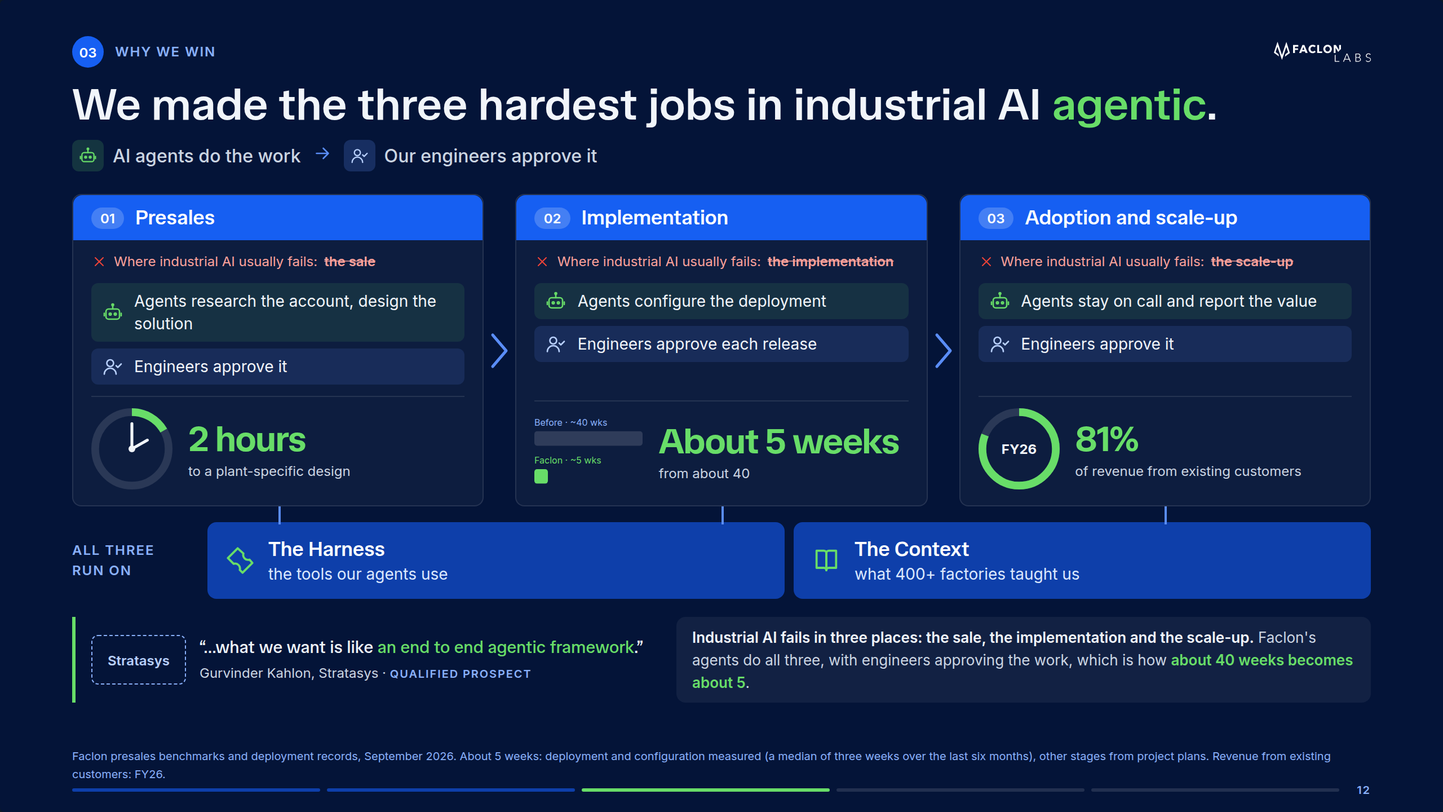
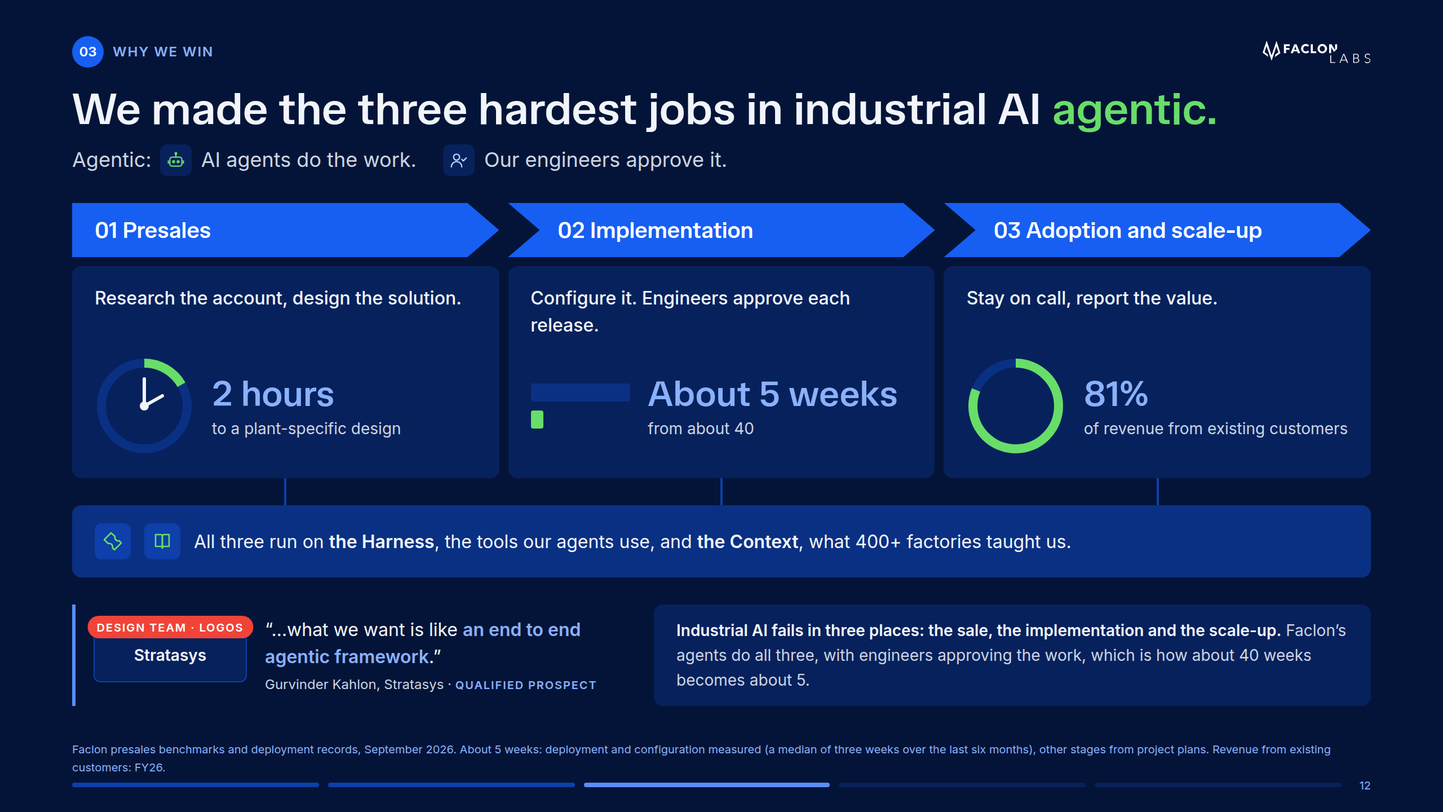
Keep original copy on 'Why we win' slide and align strictly to Faclon tokens
Restores the slide's exact wording, removes added labels, and limits
type, spacing, radius and colour to Faclon design-system values.

Claude-Session: https://claude.ai/code/session_01QeuDUy2Meuemrh82UXkygy

diff --git a/faclon-investor-deck/slide-12-why-we-win.html b/faclon-investor-deck/slide-12-why-we-win.html
@@ -5,254 +5,120 @@
 <link href="https://fonts.googleapis.com/css2?family=Inter:wght@400;500;600;700&family=TASA+Orbiter:wght@400..700&display=swap" rel="stylesheet">
 <style>
 :root{
-  --b050:#F4F8FF;--b100:#DCE8FE;--b200:#B8D0FD;--b300:#8AB1FB;--b400:#5A8DF7;--b500:#165FF2;
-  --b600:#124ED0;--b700:#0E3FAA;--b800:#0A3083;--b900:#07215C;--b1000:#041438;
-  --accent:#68DD68;
-  --g050:#EBFAF3;--g500:#00BE5F;--g1000:#00361B;
-  --r050:#FFF5F5;--r500:#F04438;--r1000:#750A0A;
-  --bg1:#FFFFFF;--bg2:#F1F5FA;--dk1:#171F2B;--dk2:#0C1927;
-  --ink:#0C1927;--body:#243547;--sup:#40566D;--muted:#768EA7;
-  --dkhead:#F1F5FA;--dkbody:#CBD5E2;
-  --line:#E3E9F1;
-  --shadow:0 2px 16px rgba(25,40,57,.10);
-  --fh:'TASA Orbiter',Inter,system-ui,sans-serif;
-  --fb:Inter,system-ui,sans-serif;
+  --b100:#DCE8FE;--b200:#B8D0FD;--b300:#8AB1FB;--b400:#5A8DF7;--b500:#165FF2;--b600:#124ED0;
+  --b700:#0E3FAA;--b800:#0A3083;--b900:#07215C;--b1000:#041438;
+  --accent:#68DD68;--r050:#FFF5F5;--r500:#F04438;
+  --hd:#F1F5FA;--bd:#CBD5E2;
+  --fh:'TASA Orbiter',Inter,system-ui,sans-serif;--fb:Inter,system-ui,sans-serif;
 }
 *{box-sizing:border-box;margin:0;padding:0}
 html,body{height:100%}
-body{background:#0C1927;font-family:var(--fb);color:var(--body);overflow:hidden;-webkit-font-smoothing:antialiased}
+body{background:#0C1927;overflow:hidden;-webkit-font-smoothing:antialiased;font-family:var(--fb)}
 #stage{position:fixed;inset:0;display:flex;align-items:center;justify-content:center}
-#deck{width:1280px;height:720px;position:relative;transform-origin:center center;flex:0 0 auto}
-.slide{position:absolute;inset:0;width:1280px;height:720px;background:var(--bg1);overflow:hidden;display:none;border-radius:4px}
-.slide.active{display:block}
-.slide.dark{background:var(--b1000);color:var(--dkbody)}
-.slide.tint{background:var(--bg2)}
-.dots::before{content:"";position:absolute;inset:0;background-image:radial-gradient(rgba(90,141,247,.22) 1.2px,transparent 1.4px);background-size:24px 24px;pointer-events:none}
-.pad{position:absolute;inset:48px 64px 64px 64px;display:flex;flex-direction:column}
-.eyebrow{font:600 12px/18px var(--fb);letter-spacing:.96px;text-transform:uppercase;color:var(--b500)}
-.dark .eyebrow{color:var(--b300)}
-.title{font:600 40px/48px var(--fh);color:var(--ink);margin-top:12px;max-width:1080px;text-wrap:balance}
-.title.sm{font-size:32px;line-height:40px}
-.dark .title{color:var(--dkhead)}
-.title em,.hl{font-style:normal;color:var(--b500)}
-.dark .title em,.dark .hl{color:var(--accent)}
-.display{font:700 72px/80px var(--fh);letter-spacing:-.02em;color:var(--ink)}
-.dark .display{color:var(--dkhead)}
-.display em{font-style:normal;color:var(--b500)}
-.dark .display em{color:var(--accent)}
-.dlg{font:700 60px/68px var(--fh);letter-spacing:-.02em}
-.dmd{font:700 48px/56px var(--fh);letter-spacing:-.02em}
-.h3{font:600 24px/32px var(--fh);color:var(--ink)}
-.h4{font:600 20px/28px var(--fh);color:var(--ink)}
-.h5{font:500 18px/24px var(--fh);color:var(--ink)}
-.dark .h3,.dark .h4,.dark .h5{color:var(--dkhead)}
-.bxl{font:400 20px/32px var(--fb)}
-.blg{font:400 18px/28px var(--fb)}
-.bmd{font:400 16px/24px var(--fb)}
-.bsm{font:400 14px/22px var(--fb)}
-.bxs{font:400 12px/18px var(--fb)}
-.sup{color:var(--sup)}.muted{color:var(--muted)}
-.dark .sup{color:var(--dkbody)}.dark .muted{color:var(--b300)}
-.num{font-family:var(--fh);font-weight:700;letter-spacing:-.02em;color:var(--ink);line-height:1}
-.dark .num{color:var(--dkhead)}
-.blue{color:var(--b500)!important}.green{color:var(--g500)!important}.red{color:var(--r500)!important}.acc{color:var(--accent)!important}
-.foot{position:absolute;left:64px;right:64px;bottom:22px;display:flex;align-items:center;gap:16px;font:400 10px/16px var(--fb);color:var(--muted)}
-.foot .src{flex:1;min-width:0}
-.foot .pg{font-weight:600;color:var(--sup);letter-spacing:.96px}
-.dark .foot .pg{color:var(--b300)}
-.logo{height:16px;width:auto;color:var(--b500);display:block}
-.dark .logo{color:#fff}
-.tracker{position:absolute;top:44px;right:64px;display:flex;gap:4px}
-.tracker span{font:600 10px/16px var(--fb);letter-spacing:.96px;text-transform:uppercase;padding:4px 10px;border-radius:999px;background:var(--bg2);color:var(--muted)}
-.tracker span.on{background:var(--b500);color:#fff}
-.tint .tracker span{background:#fff}
-.card{background:#fff;border:1px solid var(--line);border-radius:8px;padding:16px}
-.tint .card{border-color:#fff}
-.card.fill{background:var(--bg2);border-color:var(--bg2)}
-.card.brand{background:var(--b500);border-color:var(--b500);color:#fff}
-.card.navy{background:var(--b1000);border-color:var(--b1000);color:var(--dkbody)}
-.card.raise{box-shadow:var(--shadow);border-color:transparent}
-.dark .card{background:rgba(255,255,255,.05);border-color:rgba(255,255,255,.12);color:var(--dkbody)}
-.chip{display:inline-flex;align-items:center;gap:8px;font:600 12px/18px var(--fb);padding:4px 12px;border-radius:999px;background:var(--b100);color:var(--b700);white-space:nowrap}
-.chip.g{background:var(--g050);color:#00873F}.chip.r{background:var(--r050);color:var(--r500)}
-.chip.o{background:transparent;border:1px dashed var(--b500);color:var(--b500)}
-.chip.n{background:var(--bg2);color:var(--body)}
-.dark .chip{background:rgba(90,141,247,.18);color:var(--b200)}
-.dark .chip.a{background:rgba(104,221,104,.16);color:var(--accent)}
-.row{display:flex;gap:24px}.col{display:flex;flex-direction:column;gap:12px}
-.grow{flex:1;min-height:0;min-width:0}
-.center{align-items:center;justify-content:center}
-.callout{display:flex;align-items:center;gap:12px;padding:12px 16px;border-left:3px solid var(--b500);background:var(--b050);border-radius:0 6px 6px 0;font:500 18px/28px var(--fh);color:var(--ink)}
-.dark .callout{background:rgba(90,141,247,.12);border-color:var(--accent);color:var(--dkhead)}
-.ico{width:24px;height:24px;flex:0 0 auto;stroke:currentColor;fill:none;stroke-width:1.75;stroke-linecap:round;stroke-linejoin:round}
-.ibox{width:44px;height:44px;border-radius:8px;background:var(--b100);color:var(--b600);display:flex;align-items:center;justify-content:center;flex:0 0 auto}
-.ibox.dk{background:var(--b500);color:#fff}
-.ibox.r{background:var(--r050);color:var(--r500)}
-.ibox.g{background:var(--g050);color:var(--g500)}
-.dark .ibox{background:rgba(90,141,247,.18);color:var(--b200)}
-svg text{font-family:var(--fb)}
-.stepn{font:700 14px/20px var(--fh);color:var(--b500)}
-/* quote */
-.quote-mark{font:700 160px/1 var(--fh);color:var(--accent);height:88px}
-.qtext{font:500 40px/52px var(--fh);color:var(--dkhead);max-width:1040px;text-wrap:balance}
-.qtext em{font-style:normal;color:var(--accent)}
-.qwho{display:flex;align-items:center;gap:16px;margin-top:32px}
-.qfirm{font:600 12px/18px var(--fb);letter-spacing:.96px;text-transform:uppercase;padding:8px 14px;border:1px solid rgba(255,255,255,.25);border-radius:6px;color:#fff}
-/* divider */
-.partbar{display:flex;gap:6px;margin-bottom:28px}
-.partbar i{display:block;width:56px;height:6px;border-radius:2px;background:rgba(255,255,255,.14)}
-.partbar i.done{background:var(--b500)}.partbar i.on{background:var(--accent)}
-/* nav */
-#ui{position:fixed;left:0;right:0;bottom:0;height:4px;background:rgba(255,255,255,.08);z-index:5}
-#bar{height:100%;background:var(--b500);width:0;transition:width .25s}
-#count{position:fixed;right:16px;bottom:12px;font:600 12px var(--fb);color:rgba(255,255,255,.5);z-index:5}
-#hint{position:fixed;left:16px;bottom:12px;font:400 12px var(--fb);color:rgba(255,255,255,.4);z-index:5}
-.navbtn{position:fixed;top:0;bottom:0;width:12%;z-index:4;cursor:pointer}
-#prev{left:0}#next{right:0}
-body.grid{overflow:auto}
-body.grid #stage{position:static;display:grid;grid-template-columns:repeat(auto-fill,minmax(320px,1fr));gap:16px;padding:16px}
-body.grid #deck{display:contents}
-body.grid .slide{display:block;position:relative;transform:scale(.25);transform-origin:0 0;margin-bottom:-540px;margin-right:-960px;cursor:pointer;outline:1px solid rgba(255,255,255,.15)}
-body.grid .navbtn,body.grid #ui,body.grid #count{display:none}
-@media print{
-  @page{size:1280px 720px;margin:0}
-  body{background:#fff;overflow:visible}
-  #stage{position:static;display:block}
-  #deck{transform:none!important;width:auto;height:auto}
-  .slide{display:block!important;position:relative;page-break-after:always;break-after:page;border-radius:0}
-  #ui,#count,#hint,.navbtn{display:none}
-  *{-webkit-print-color-adjust:exact;print-color-adjust:exact}
-}
+.slide{width:1280px;height:720px;flex:0 0 auto;position:relative;overflow:hidden;background:var(--b1000);color:var(--bd);transform-origin:center}
+.pad{position:absolute;inset:32px 64px 0 64px;display:flex;flex-direction:column}
+.ico{stroke:currentColor;fill:none;stroke-width:1.75;stroke-linecap:round;stroke-linejoin:round;flex:0 0 auto}
+.logo{height:20px;width:auto;color:#fff;display:block}
 
-.slide{display:block}
-.slide.dark{background:var(--b1000)}
-.top{display:flex;justify-content:space-between;align-items:center}
-.sec{display:flex;align-items:center;gap:10px}
-.sec .badge{width:28px;height:28px;border-radius:999px;background:var(--b500);color:#fff;display:flex;align-items:center;justify-content:center;font:600 12px var(--fb)}
-.legend{display:flex;align-items:center;gap:10px;margin-top:8px}
-.legend .k{display:inline-flex;align-items:center;gap:8px;font:500 16px/24px var(--fb);color:var(--dkbody)}
-.legend .k .d{width:28px;height:28px;border-radius:6px;display:flex;align-items:center;justify-content:center}
-.ag-c{background:rgba(104,221,104,.16);color:var(--accent)}
-.en-c{background:rgba(90,141,247,.22);color:var(--b200)}
-.row3{display:flex;align-items:stretch;margin-top:20px}
-.arr{flex:0 0 28px;display:flex;align-items:center;justify-content:center}
-.stage{flex:1;min-width:0;background:rgba(255,255,255,.04);border:1px solid rgba(255,255,255,.10);border-radius:8px;padding:0 16px 14px;display:flex;flex-direction:column;gap:10px;position:relative}
-.chev{margin:0 -16px;height:40px;background:var(--b500);border-radius:8px 8px 0 0;display:flex;align-items:center;gap:10px;padding:0 16px;font:600 18px/24px var(--fh);color:#fff}
-.chev .sn{font:600 12px var(--fb);background:rgba(255,255,255,.2);border-radius:999px;padding:2px 8px}
-.fail{display:flex;align-items:center;gap:6px;font:400 12px/18px var(--fb);color:#FDA29B}
-.fail b{font-weight:600;text-decoration:line-through;text-decoration-color:rgba(253,162,155,.7)}
-.fail svg{color:var(--r500);flex:0 0 auto}
-.flow{display:flex;flex-direction:column;gap:6px}
-.who{display:flex;align-items:center;gap:10px;font:400 14px/20px var(--fb);color:var(--dkhead);padding:6px 10px;border-radius:6px}
-.who svg{flex:0 0 auto}
-.who.ag{background:rgba(104,221,104,.10)} .who.ag svg{color:var(--accent)}
-.who.en{background:rgba(90,141,247,.14)} .who.en svg{color:var(--b200)}
-.metric{display:flex;align-items:center;gap:14px;margin-top:auto;padding-top:10px;border-top:1px solid rgba(255,255,255,.10)}
-.big{white-space:nowrap;font:700 32px/40px var(--fh);letter-spacing:-.02em;color:var(--accent)}
-.cap{font:400 12px/18px var(--fb);color:var(--dkbody)}
-.drop{position:absolute;left:50%;bottom:-17px;width:2px;height:16px;background:var(--b400)}
-.base{margin-top:14px;display:flex;gap:8px;align-items:stretch}
-.base .lbl{flex:0 0 112px;display:flex;align-items:center;font:600 12px/18px var(--fb);letter-spacing:.96px;text-transform:uppercase;color:var(--b300)}
-.slab{flex:1;display:flex;align-items:center;gap:12px;padding:12px 16px;border-radius:8px;background:var(--b700);color:#fff}
-.slab .t{font:600 18px/24px var(--fh)}
-.slab .s{font:400 14px/20px var(--fb);color:var(--b100)}
-.slab svg{color:var(--accent)}
-.bottom{display:flex;gap:16px;margin-top:16px;align-items:stretch}
-.quote{flex:0 0 520px;display:flex;gap:12px;align-items:center;border-left:3px solid var(--accent);padding:4px 0 4px 14px}
-.lslot{flex:0 0 84px;height:44px;border:1px dashed var(--b300);border-radius:6px;display:flex;align-items:center;justify-content:center;font:600 12px var(--fb);color:var(--b200)}
-.q{font:500 15px/20px var(--fh);color:var(--dkhead)}
-.q em{font-style:normal;color:var(--accent)}
-.qa{font:400 12px/18px var(--fb);color:var(--dkbody);margin-top:4px}
-.qa span{font-weight:600;letter-spacing:.96px;text-transform:uppercase;font-size:10px;color:var(--b300)}
-.take{flex:1;background:rgba(255,255,255,.06);border-radius:8px;padding:8px 14px;font:400 13px/20px var(--fb);color:var(--dkbody);display:flex;align-items:center}
-.take b{color:var(--dkhead);font-weight:600}
-.take .hl{color:var(--accent);font-weight:600}
-.src{position:absolute;left:64px;right:64px;bottom:26px;font:400 10px/16px var(--fb);color:var(--b300)}
-.prog{position:absolute;left:64px;right:64px;bottom:14px;display:flex;gap:6px;align-items:center}
-.prog i{flex:1;height:3px;border-radius:2px;background:rgba(255,255,255,.12)}
-.prog i.done{background:var(--b700)}.prog i.on{background:var(--accent)}
-.prog .pg{flex:0 0 auto;margin-left:10px;font:600 10px var(--fb);color:var(--b300);letter-spacing:.96px}
+/* header */
+.top{display:flex;justify-content:space-between;align-items:center;height:28px}
+.sec{display:flex;align-items:center;gap:8px}
+.badge{width:28px;height:28px;border-radius:999px;background:var(--b500);color:#fff;display:flex;align-items:center;justify-content:center;font:600 12px/18px var(--fb)}
+.eyebrow{font:600 12px/18px var(--fb);letter-spacing:.96px;text-transform:uppercase;color:var(--b300)}
+h1{font:600 40px/48px var(--fh);color:var(--hd);margin-top:12px}
+h1 em{font-style:normal;color:var(--accent)}
+.sub{display:flex;align-items:center;gap:8px;margin-top:8px;font:400 18px/28px var(--fb);color:var(--bd)}
+.sub .d{width:28px;height:28px;border-radius:6px;display:flex;align-items:center;justify-content:center;background:var(--b900)}
+.sub .ag{color:var(--accent)}
+.sub .en{color:var(--b200)}
+.sub .gap{width:8px}
 
-body{overflow:auto}
-#stage{position:fixed;inset:0;display:flex;align-items:center;justify-content:center}
+/* stages */
+.stages{display:flex;gap:8px;margin-top:24px}
+.stage{flex:1;min-width:0;display:flex;flex-direction:column}
+.chev{height:48px;background:var(--b500);display:flex;align-items:center;gap:8px;padding:0 44px 0 20px;
+  clip-path:polygon(0 0,calc(100% - 28px) 0,100% 50%,calc(100% - 28px) 100%,0 100%,0 0);
+  font:600 20px/28px var(--fh);color:#fff}
+.stage + .stage .chev{padding-left:44px;clip-path:polygon(0 0,calc(100% - 28px) 0,100% 50%,calc(100% - 28px) 100%,0 100%,28px 50%)}
+.card{flex:1;margin-top:8px;background:var(--b900);border-radius:8px;padding:16px 20px 20px;display:flex;flex-direction:column;gap:16px}
+.desc{font:500 16px/24px var(--fb);color:var(--hd);min-height:48px}
+.metric{display:flex;align-items:center;gap:16px;margin-top:auto}
+.vis{flex:0 0 88px;height:88px;display:flex;align-items:center}
+.big{font:600 32px/40px var(--fh);color:var(--b300);white-space:nowrap}
+.cap{font:400 14px/22px var(--fb);color:var(--bd)}
+.drop{height:24px;display:flex;justify-content:center}
+.drop i{display:block;width:2px;height:24px;background:var(--b700)}
+
+/* foundation */
+.base{background:var(--b800);border-radius:8px;padding:16px 20px;display:flex;align-items:center;gap:12px;font:400 16px/24px var(--fb);color:var(--hd)}
+.base b{font-weight:600}
+.base .ic{width:32px;height:32px;border-radius:6px;background:var(--b700);color:var(--accent);display:flex;align-items:center;justify-content:center;flex:0 0 auto}
+
+/* bottom */
+.bottom{display:flex;gap:24px;margin-top:24px;align-items:stretch}
+.quote{flex:0 0 492px;display:flex;align-items:center;gap:16px;border-left:3px solid var(--b400);padding-left:16px}
+.lslot{position:relative;flex:0 0 136px;height:48px;border:1px solid var(--b700);border-radius:6px;background:var(--b900);display:flex;align-items:center;justify-content:center;font:600 14px/22px var(--fb);color:var(--hd)}
+.tag{position:absolute;top:-12px;left:50%;transform:translateX(-50%);font:600 10px/16px var(--fb);letter-spacing:.96px;text-transform:uppercase;background:var(--r500);color:#fff;padding:2px 8px;border-radius:999px;white-space:nowrap}
+.q{font:400 16px/24px var(--fb);color:var(--hd)}
+.q em{font-style:normal;font-weight:600;color:var(--b300)}
+.qa{font:400 12px/18px var(--fb);color:var(--bd);margin-top:4px}
+.qa span{font-weight:600;font-size:10px;line-height:16px;letter-spacing:.96px;text-transform:uppercase;color:var(--b300)}
+.take{flex:1;background:var(--b900);border-radius:8px;padding:12px 20px;font:400 14px/22px var(--fb);color:var(--bd);display:flex;align-items:center}
+.take b{font-weight:600;color:var(--hd)}
+
+/* footer */
+.src{position:absolute;left:64px;right:64px;bottom:32px;font:400 10px/16px var(--fb);color:var(--b300)}
+.prog{position:absolute;left:64px;right:64px;bottom:16px;display:flex;gap:8px;align-items:center}
+.prog i{flex:1;height:4px;border-radius:2px;background:var(--b900)}
+.prog i.done{background:var(--b700)}.prog i.on{background:var(--b400)}
+.prog .pg{flex:0 0 auto;margin-left:8px;font:400 10px/16px var(--fb);color:var(--b300)}
+@media print{@page{size:1280px 720px;margin:0}body{background:none}#stage{position:static}.slide{transform:none!important}*{-webkit-print-color-adjust:exact;print-color-adjust:exact}}
 </style></head><body>
 <svg width="0" height="0" style="position:absolute" aria-hidden="true"><symbol id="faclon-logo" viewBox="0 0 254 53"><path d="M21.0896 47.4814L9.07165 13.0136L4.61176 26.8799L11.8509 32.3868L13.1417 38.1526L0 28.5599L9.45639 0L21.0896 34.6505L32.5962 0.507551L41.7691 29.3415L28.6527 38.8631L30.0752 32.6457L37.051 27.3316L32.3988 13.5973L21.0896 47.4814Z" fill="currentColor"/><path d="M63.684 8.53735V12.7856H55.0274V17.1708H63.0613V21.4038H55.0274V29.3317H50.0512V8.53735H63.684Z" fill="currentColor"/><path d="M86.5859 25.2256L84.9862 21.4038L83.2144 17.1708L81.3818 12.7856L79.6049 8.53735H74.5224L72.7455 12.7856L70.913 17.1708L69.1412 21.4038L67.5415 25.2256L65.8253 29.3317H71.4445L72.8873 25.2256H81.0426L82.4854 29.3317H88.302L86.5859 25.2256ZM74.2237 21.4038L75.712 17.1708L76.9675 13.5926L78.2179 17.1708L79.7062 21.4038H74.2237Z" fill="currentColor"/><path d="M126.052 25.2256V29.3317H113.188V8.53735H118.038V25.2256H126.052Z" fill="currentColor"/><path d="M175.166 8.53735V19.201L172.969 21.4038L170.337 24.043L169.157 25.2256L167.861 26.525L167.041 25.2256L164.646 21.4038L161.989 17.1708L161.118 15.7801V29.3317H156.294V8.53735H161.893L164.56 12.7856L167.309 17.1708L169.962 21.4038L170.337 21.9976V8.53735H175.166Z" fill="currentColor"/><path d="M109.321 26.6663C108.08 27.8794 106.547 28.798 104.836 29.331C103.772 29.6609 102.638 29.8385 101.464 29.8385C100.29 29.8385 99.1556 29.6609 98.0926 29.331C95.7538 28.6052 93.744 27.1485 92.357 25.2249C91.5318 24.093 90.9243 22.7988 90.5902 21.403C90.3928 20.596 90.2915 19.7535 90.2915 18.8856C90.2915 18.3019 90.3371 17.7284 90.4282 17.17C90.6864 15.5662 91.2989 14.0791 92.1848 12.7848C93.5314 10.8257 95.5006 9.31823 97.8192 8.5366C98.9582 8.14579 100.188 7.9377 101.464 7.9377C102.74 7.9377 103.97 8.14579 105.109 8.5366C106.678 9.06446 108.096 9.93238 109.26 11.0388L105.894 14.475C105.225 13.7187 104.395 13.13 103.464 12.7848C102.861 12.5615 102.208 12.4397 101.535 12.4397C100.862 12.4397 100.214 12.5615 99.6112 12.7848C97.7534 13.4649 96.3056 15.1094 95.7639 17.17C95.607 17.7487 95.526 18.3577 95.526 18.9922C95.526 19.8448 95.6728 20.6569 95.9461 21.403C96.6042 23.2099 97.971 24.6209 99.677 25.2249C100.259 25.433 100.887 25.5446 101.535 25.5446C102.183 25.5446 102.811 25.433 103.393 25.2249C104.431 24.8594 105.342 24.1895 106.045 23.3165L109.321 26.6663Z" fill="currentColor"/><path d="M151.328 17.17C151.07 15.5662 150.457 14.0791 149.571 12.7848C148.225 10.8257 146.25 9.31823 143.932 8.5366C142.788 8.14579 141.563 7.9377 140.287 7.9377C139.011 7.9377 137.786 8.14579 136.642 8.5366C134.323 9.31823 132.354 10.8257 131.008 12.7848C130.122 14.0791 129.509 15.5662 129.251 17.17C129.16 17.7284 129.114 18.3019 129.114 18.8856C129.114 19.7535 129.216 20.596 129.413 21.403C129.747 22.7988 130.355 24.093 131.18 25.2249C132.567 27.1485 134.577 28.6052 136.92 29.331C137.983 29.6609 139.112 29.8385 140.287 29.8385C141.461 29.8385 142.59 29.6609 143.653 29.331C145.997 28.6052 148.007 27.1485 149.399 25.2249C150.224 24.093 150.832 22.7988 151.166 21.403C151.363 20.596 151.464 19.7535 151.464 18.8856C151.464 18.3019 151.419 17.7284 151.328 17.17ZM145.941 21.403C145.278 23.2099 143.896 24.6209 142.175 25.2249C141.583 25.433 140.95 25.5446 140.297 25.5446C139.644 25.5446 139.011 25.433 138.419 25.2249C136.693 24.6209 135.311 23.2099 134.647 21.403C134.374 20.6569 134.222 19.8448 134.222 18.9922C134.222 18.3577 134.303 17.7487 134.465 17.17C135.012 15.1094 136.475 13.4649 138.353 12.7848C138.966 12.5615 139.619 12.4397 140.297 12.4397C140.98 12.4397 141.633 12.5615 142.246 12.7848C144.114 13.47 145.577 15.1094 146.124 17.17C146.286 17.7487 146.367 18.3577 146.367 18.9922C146.367 19.8448 146.215 20.6569 145.941 21.403Z" fill="currentColor"/><path d="M170.934 50.5977V52.1762H158.941V35.5184L161.108 33.3918V50.5977H170.934Z" fill="currentColor"/><path d="M200.255 50.5978L198.61 46.7099L197.84 44.898L196.64 42.0658L195.937 40.4062L192.672 32.7168L191.968 31.052H189.675L188.971 32.7168L185.706 40.4062L185.002 42.0658L183.802 44.898L183.033 46.7099L181.383 50.5978L180.714 52.1763H182.901L183.544 50.5978L185.134 46.7099H196.301L197.891 50.5978L198.534 52.1763H200.923L200.255 50.5978ZM185.873 44.898L187.032 42.0658L187.71 40.4062L190.717 33.0568L193.725 40.4062L194.403 42.0658L195.562 44.898H185.873Z" fill="currentColor"/><path d="M226.969 44.898C226.599 43.7661 225.845 42.7815 224.837 42.0658C224.25 41.6496 223.572 41.3198 222.838 41.1117C223.283 40.934 223.698 40.6955 224.073 40.4062C225.313 39.4469 226.113 37.9547 226.113 36.2747C226.113 34.8992 225.582 33.6507 224.706 32.7168C223.744 31.6915 222.377 31.052 220.859 31.052H213.037V52.1763H220.95C222.64 52.1763 224.169 51.5774 225.293 50.5978C226.437 49.6131 227.171 48.2377 227.227 46.7099C227.232 46.644 227.232 46.578 227.232 46.512C227.232 45.9537 227.141 45.4106 226.969 44.898ZM215.037 32.7168H220.256C222.372 32.7168 224.088 34.4374 224.088 36.5589C224.088 38.6856 222.372 40.4062 220.256 40.4062H215.037V32.7168ZM215.037 50.5978V42.0658H220.818C222.727 42.0658 224.346 43.2484 224.949 44.898C225.116 45.3446 225.207 45.8319 225.207 46.3343C225.207 46.4612 225.202 46.5881 225.192 46.7099C224.994 48.8873 223.111 50.5978 220.818 50.5978H215.037Z" fill="currentColor"/><path d="M253.318 46.7099V46.7403C253.318 48.2021 252.716 49.5471 251.713 50.5977C251.091 51.2525 250.316 51.7905 249.435 52.1762C248.443 52.6178 247.319 52.8665 246.124 52.8665C244.93 52.8665 243.806 52.6178 242.814 52.1762C241.933 51.7905 241.158 51.2525 240.536 50.5977C240.277 50.3287 240.045 50.0394 239.847 49.7349L241.295 48.6081C241.781 49.4507 242.581 50.146 243.568 50.5977C244.363 50.9632 245.274 51.1712 246.251 51.1712C247.228 51.1712 248.144 50.9632 248.939 50.5977C250.6 49.8313 251.728 48.3797 251.754 46.7099V46.6541C251.754 46.0298 251.602 45.441 251.318 44.8979C250.564 43.4311 248.888 42.3602 246.884 42.1724C246.737 42.1572 246.585 42.147 246.433 42.147C246.428 42.1419 246.418 42.1419 246.413 42.147C246.2 42.1267 245.988 42.1013 245.78 42.0658C244.834 41.9084 243.958 41.5887 243.193 41.1471C242.819 40.9289 242.464 40.6802 242.145 40.4061C240.925 39.3555 240.176 37.9242 240.176 36.3457C240.176 34.9702 240.743 33.7115 241.69 32.7167C242.363 32.0112 243.229 31.4377 244.221 31.0519C245.112 30.7068 246.104 30.5139 247.147 30.5139C248.19 30.5139 249.182 30.7068 250.073 31.0519C251.065 31.4377 251.926 32.0112 252.599 32.7167C252.731 32.8487 252.852 32.9908 252.969 33.138L251.303 34.4373C250.822 33.6912 250.078 33.0872 249.187 32.7167C248.559 32.4579 247.856 32.3107 247.112 32.3107C246.367 32.3107 245.664 32.4579 245.036 32.7167C243.411 33.3918 242.292 34.8281 242.292 36.4929C242.292 38.2845 243.588 39.8072 245.411 40.4061C245.699 40.5025 246.008 40.5736 246.322 40.6193C246.58 40.6548 246.843 40.6751 247.112 40.6751C247.117 40.67 247.122 40.6751 247.127 40.6751C248.21 40.802 249.218 41.137 250.088 41.6293C250.326 41.7613 250.559 41.9084 250.777 42.0658C251.799 42.8068 252.574 43.7813 252.984 44.8979C253.196 45.4664 253.313 46.0755 253.318 46.7099Z" fill="currentColor"/>
 </symbol><symbol id="i-factory" viewBox="0 0 24 24"><path d="M3 21V10l6 4V10l6 4V6l6 3v12z"/><path d="M3 21h18"/><path d="M7 17h2M12 17h2M17 17h1"/></symbol><symbol id="i-bolt" viewBox="0 0 24 24"><path d="M13 2 4 14h7l-1 8 9-12h-7z"/></symbol><symbol id="i-gauge" viewBox="0 0 24 24"><path d="M12 14l4-4"/><path d="M3.5 17a9 9 0 1 1 17 0"/><circle cx="12" cy="14" r="1.5"/></symbol><symbol id="i-alert" viewBox="0 0 24 24"><path d="M12 3 2 20h20z"/><path d="M12 10v4M12 17h.01"/></symbol><symbol id="i-search" viewBox="0 0 24 24"><circle cx="11" cy="11" r="7"/><path d="m20 20-4-4"/></symbol><symbol id="i-db" viewBox="0 0 24 24"><ellipse cx="12" cy="5" rx="8" ry="3"/><path d="M4 5v14c0 1.7 3.6 3 8 3s8-1.3 8-3V5"/><path d="M4 12c0 1.7 3.6 3 8 3s8-1.3 8-3"/></symbol><symbol id="i-clock" viewBox="0 0 24 24"><circle cx="12" cy="12" r="9"/><path d="M12 7v5l3 2"/></symbol><symbol id="i-plug" viewBox="0 0 24 24"><path d="M9 2v6M15 2v6"/><path d="M6 8h12v4a6 6 0 0 1-12 0z"/><path d="M12 18v4"/></symbol><symbol id="i-brain" viewBox="0 0 24 24"><path d="M9 4a3 3 0 0 0-3 3 3 3 0 0 0-2 5 3 3 0 0 0 2 5 3 3 0 0 0 6 1V5a2 2 0 0 0-3-1z"/><path d="M15 4a3 3 0 0 1 3 3 3 3 0 0 1 2 5 3 3 0 0 1-2 5 3 3 0 0 1-6 1"/></symbol><symbol id="i-layers" viewBox="0 0 24 24"><path d="m12 3 9 5-9 5-9-5z"/><path d="m3 13 9 5 9-5"/></symbol><symbol id="i-users" viewBox="0 0 24 24"><circle cx="9" cy="8" r="3.5"/><path d="M2.5 20a6.5 6.5 0 0 1 13 0"/><circle cx="17" cy="9" r="2.5"/><path d="M16 14.5a5 5 0 0 1 5.5 5"/></symbol><symbol id="i-user" viewBox="0 0 24 24"><circle cx="12" cy="8" r="4"/><path d="M4 21a8 8 0 0 1 16 0"/></symbol><symbol id="i-chart" viewBox="0 0 24 24"><path d="M3 3v18h18"/><path d="m7 15 4-4 3 3 6-7"/></symbol><symbol id="i-check" viewBox="0 0 24 24"><path d="m5 12 5 5 9-10"/></symbol><symbol id="i-x" viewBox="0 0 24 24"><path d="M6 6l12 12M18 6 6 18"/></symbol><symbol id="i-arrow" viewBox="0 0 24 24"><path d="M5 12h14M13 6l6 6-6 6"/></symbol><symbol id="i-globe" viewBox="0 0 24 24"><circle cx="12" cy="12" r="9"/><path d="M3 12h18M12 3a14 14 0 0 1 0 18M12 3a14 14 0 0 0 0 18"/></symbol><symbol id="i-dollar" viewBox="0 0 24 24"><path d="M12 2v20"/><path d="M17 6H9.5a3.5 3.5 0 0 0 0 7h5a3.5 3.5 0 0 1 0 7H6"/></symbol><symbol id="i-shield" viewBox="0 0 24 24"><path d="M12 3 4 6v6c0 5 3.5 8 8 9 4.5-1 8-4 8-9V6z"/><path d="m9 12 2 2 4-4"/></symbol><symbol id="i-book" viewBox="0 0 24 24"><path d="M4 4h6a2 2 0 0 1 2 2v14a2 2 0 0 0-2-2H4z"/><path d="M20 4h-6a2 2 0 0 0-2 2v14a2 2 0 0 1 2-2h6z"/></symbol><symbol id="i-gear" viewBox="0 0 24 24"><circle cx="12" cy="12" r="3"/><path d="M12 2v3M12 19v3M4.2 4.2l2.1 2.1M17.7 17.7l2.1 2.1M2 12h3M19 12h3M4.2 19.8l2.1-2.1M17.7 6.3l2.1-2.1"/></symbol><symbol id="i-handshake" viewBox="0 0 24 24"><path d="m2 12 4-4 4 2 4-3 4 1 4 4"/><path d="m6 12 5 5a1.5 1.5 0 0 0 2-2"/><path d="m13 15 2 2a1.5 1.5 0 0 0 2-2l-3-3"/></symbol><symbol id="i-phone" viewBox="0 0 24 24"><path d="M5 3h4l2 5-3 2a11 11 0 0 0 6 6l2-3 5 2v4a2 2 0 0 1-2 2A17 17 0 0 1 3 5a2 2 0 0 1 2-2z"/></symbol><symbol id="i-calendar" viewBox="0 0 24 24"><rect x="3" y="5" width="18" height="16" rx="2"/><path d="M3 10h18M8 3v4M16 3v4"/></symbol><symbol id="i-target" viewBox="0 0 24 24"><circle cx="12" cy="12" r="9"/><circle cx="12" cy="12" r="5"/><circle cx="12" cy="12" r="1"/></symbol><symbol id="i-rocket" viewBox="0 0 24 24"><path d="M5 15c-1.5 1.5-2 5-2 5s3.5-.5 5-2"/><path d="M9 15l-3-3c2-6 7-9 13-9 0 6-3 11-9 13z"/><circle cx="15" cy="9" r="1.5"/></symbol><symbol id="i-cpu" viewBox="0 0 24 24"><rect x="6" y="6" width="12" height="12" rx="2"/><rect x="9" y="9" width="6" height="6"/><path d="M9 2v4M15 2v4M9 18v4M15 18v4M2 9h4M2 15h4M18 9h4M18 15h4"/></symbol><symbol id="i-eye" viewBox="0 0 24 24"><path d="M2 12s4-7 10-7 10 7 10 7-4 7-10 7S2 12 2 12z"/><circle cx="12" cy="12" r="3"/></symbol><symbol id="i-tag" viewBox="0 0 24 24"><path d="M3 12V3h9l9 9-9 9z"/><circle cx="7.5" cy="7.5" r="1.5"/></symbol><symbol id="i-repeat" viewBox="0 0 24 24"><path d="M17 2l4 4-4 4"/><path d="M3 11V9a3 3 0 0 1 3-3h15"/><path d="M7 22l-4-4 4-4"/><path d="M21 13v2a3 3 0 0 1-3 3H3"/></symbol><symbol id="i-trend" viewBox="0 0 24 24"><path d="m3 17 6-6 4 4 8-8"/><path d="M15 7h6v6"/></symbol><symbol id="i-down" viewBox="0 0 24 24"><path d="m3 7 6 6 4-4 8 8"/><path d="M15 17h6v-6"/></symbol><symbol id="i-lock" viewBox="0 0 24 24"><rect x="4" y="11" width="16" height="10" rx="2"/><path d="M8 11V7a4 4 0 0 1 8 0v4"/></symbol><symbol id="i-box" viewBox="0 0 24 24"><path d="m12 2 9 5v10l-9 5-9-5V7z"/><path d="m3 7 9 5 9-5M12 12v10"/></symbol><symbol id="i-wrench" viewBox="0 0 24 24"><path d="M14.7 6.3a4 4 0 0 0 5 5L22 14l-8 8-2.3-2.3a4 4 0 0 0-5-5L2 10l8-8z"/></symbol><symbol id="i-map" viewBox="0 0 24 24"><path d="M9 3 3 6v15l6-3 6 3 6-3V3l-6 3z"/><path d="M9 3v15M15 6v15"/></symbol><symbol id="i-flag" viewBox="0 0 24 24"><path d="M5 22V3"/><path d="M5 4h12l-2 4 2 4H5"/></symbol><symbol id="i-cam" viewBox="0 0 24 24"><rect x="3" y="7" width="18" height="13" rx="2"/><circle cx="12" cy="13" r="3.5"/><path d="M8 7l2-3h4l2 3"/></symbol><symbol id="i-mic" viewBox="0 0 24 24"><rect x="9" y="3" width="6" height="11" rx="3"/><path d="M5 11a7 7 0 0 0 14 0M12 18v3"/></symbol><symbol id="i-star" viewBox="0 0 24 24"><path d="m12 3 2.8 5.7 6.2.9-4.5 4.4 1 6.2-5.5-2.9-5.5 2.9 1-6.2L3 9.6l6.2-.9z"/></symbol><symbol id="i-report" viewBox="0 0 24 24"><path d="M6 2h9l5 5v15H6z"/><path d="M15 2v5h5M9 17v-3M12 17v-6M15 17v-4"/></symbol><symbol id="i-cloud" viewBox="0 0 24 24"><path d="M7 18a5 5 0 0 1-.5-10A6 6 0 0 1 18 9a4.5 4.5 0 0 1 0 9z"/></symbol><symbol id="i-bot" viewBox="0 0 24 24"><rect x="4" y="8" width="16" height="12" rx="3"/><path d="M12 4v4"/><circle cx="12" cy="3" r="1"/><circle cx="9" cy="14" r="1.2"/><circle cx="15" cy="14" r="1.2"/><path d="M2 13v3M22 13v3"/></symbol><symbol id="i-ucheck" viewBox="0 0 24 24"><circle cx="9" cy="8" r="4"/><path d="M2 21a7 7 0 0 1 14 0"/><path d="m16 11 2 2 4-4"/></symbol></svg>
-<div id="stage"><div id="deck">
-<section class="slide dark active">
-<div class="pad" style="inset:32px 64px 62px">
+<div id="stage"><section class="slide" id="slide">
+<div class="pad">
  <div class="top">
-  <div class="sec"><span class="badge">03</span><span class="eyebrow" style="color:var(--b300)">Why we win</span></div>
-  <svg class="logo" style="height:18px;color:#fff" viewBox="0 0 254 53" aria-label="Faclon Labs"><use href="#faclon-logo"/></svg>
+  <div class="sec"><span class="badge">03</span><span class="eyebrow">Why we win</span></div>
+  <svg class="logo" viewBox="0 0 254 53" aria-label="Faclon Labs"><use href="#faclon-logo"/></svg>
  </div>
- <h2 class="title" style="margin-top:8px;max-width:none">We made the three hardest jobs in industrial AI <em>agentic</em>.</h2>
- <div class="legend">
-  <span class="k"><span class="d ag-c"><svg class="ico" viewBox="0 0 24 24" style="width:16px;height:16px"><use href="#i-bot"/></svg></span>AI agents do the work</span>
-  <span style="color:var(--b400)"><svg class="ico" viewBox="0 0 24 24" style="width:18px;height:18px"><use href="#i-arrow"/></svg></span>
-  <span class="k"><span class="d en-c"><svg class="ico" viewBox="0 0 24 24" style="width:16px;height:16px"><use href="#i-ucheck"/></svg></span>Our engineers approve it</span>
- </div>
- <div class="row3">
-<div class="stage">
- <div class="chev"><span class="sn">01</span>Presales</div>
- <div class="fail"><svg class="ico" viewBox="0 0 24 24" style="width:14px;height:14px"><use href="#i-x"/></svg> Where industrial AI usually fails: <b>the sale</b></div>
- <div class="flow">
-  <div class="who ag"><svg class="ico" viewBox="0 0 24 24" style="width:18px;height:18px"><use href="#i-bot"/></svg><span>Agents research the account, design the solution</span></div>
-  <div class="who en"><svg class="ico" viewBox="0 0 24 24" style="width:18px;height:18px"><use href="#i-ucheck"/></svg><span>Engineers approve it</span></div>
- </div>
- <div class="metric"><svg viewBox="0 0 84 84" width="72" height="72">
- <circle cx="42" cy="42" r="38" fill="none" stroke="rgba(255,255,255,.12)" stroke-width="8"/>
- <circle cx="42" cy="42" r="38" fill="none" stroke="#68DD68" stroke-width="8" stroke-dasharray="39.8 238.8" transform="rotate(-90 42 42)"/>
- <line x1="42" y1="42" x2="42" y2="16" stroke="#F1F5FA" stroke-width="3" stroke-linecap="round"/>
- <line x1="42" y1="42" x2="58" y2="33" stroke="#F1F5FA" stroke-width="3" stroke-linecap="round"/>
- <circle cx="42" cy="42" r="3.5" fill="#F1F5FA"/></svg><div><div class="big">2 hours</div><div class="cap">to a plant-specific design</div></div></div>
- <div class="drop"></div>
-</div><div class="arr"><svg viewBox="0 0 20 40" width="20" height="40"><path d="M4 6 16 20 4 34" fill="none" stroke="#5A8DF7" stroke-width="2.5" stroke-linecap="round" stroke-linejoin="round"/></svg></div>
-<div class="stage">
- <div class="chev"><span class="sn">02</span>Implementation</div>
- <div class="fail"><svg class="ico" viewBox="0 0 24 24" style="width:14px;height:14px"><use href="#i-x"/></svg> Where industrial AI usually fails: <b>the implementation</b></div>
- <div class="flow">
-  <div class="who ag"><svg class="ico" viewBox="0 0 24 24" style="width:18px;height:18px"><use href="#i-bot"/></svg><span>Agents configure the deployment</span></div>
-  <div class="who en"><svg class="ico" viewBox="0 0 24 24" style="width:18px;height:18px"><use href="#i-ucheck"/></svg><span>Engineers approve each release</span></div>
- </div>
- <div class="metric"><svg viewBox="0 0 120 84" width="96" height="68">
- <text x="0" y="14" font-size="10" fill="#8AB1FB">Before · ~40 wks</text>
- <rect x="0" y="20" width="120" height="16" rx="3" fill="rgba(255,255,255,.14)"/>
- <text x="0" y="56" font-size="10" fill="#68DD68">Faclon · ~5 wks</text>
- <rect x="0" y="62" width="15" height="16" rx="3" fill="#68DD68"/></svg><div><div class="big">About 5 weeks</div><div class="cap">from about 40</div></div></div>
- <div class="drop"></div>
-</div><div class="arr"><svg viewBox="0 0 20 40" width="20" height="40"><path d="M4 6 16 20 4 34" fill="none" stroke="#5A8DF7" stroke-width="2.5" stroke-linecap="round" stroke-linejoin="round"/></svg></div>
-<div class="stage">
- <div class="chev"><span class="sn">03</span>Adoption and scale-up</div>
- <div class="fail"><svg class="ico" viewBox="0 0 24 24" style="width:14px;height:14px"><use href="#i-x"/></svg> Where industrial AI usually fails: <b>the scale-up</b></div>
- <div class="flow">
-  <div class="who ag"><svg class="ico" viewBox="0 0 24 24" style="width:18px;height:18px"><use href="#i-bot"/></svg><span>Agents stay on call and report the value</span></div>
-  <div class="who en"><svg class="ico" viewBox="0 0 24 24" style="width:18px;height:18px"><use href="#i-ucheck"/></svg><span>Engineers approve it</span></div>
- </div>
- <div class="metric"><svg viewBox="0 0 84 84" width="72" height="72">
- <circle cx="42" cy="42" r="38" fill="none" stroke="rgba(255,255,255,.12)" stroke-width="8"/>
- <circle cx="42" cy="42" r="38" fill="none" stroke="#68DD68" stroke-width="8" stroke-dasharray="193.4 238.8" transform="rotate(-90 42 42)"/>
- <text x="42" y="47" text-anchor="middle" font-size="14" font-weight="700" fill="#F1F5FA">FY26</text></svg><div><div class="big">81%</div><div class="cap">of revenue from existing customers</div></div></div>
- <div class="drop"></div>
-</div></div>
- <div class="base">
-  <div class="lbl">All three<br>run on</div>
-  <div class="slab"><svg class="ico" viewBox="0 0 24 24" style="width:26px;height:26px"><use href="#i-wrench"/></svg><div><div class="t">The Harness</div><div class="s">the tools our agents use</div></div></div>
-  <div class="slab"><svg class="ico" viewBox="0 0 24 24" style="width:26px;height:26px"><use href="#i-book"/></svg><div><div class="t">The Context</div><div class="s">what 400+ factories taught us</div></div></div>
- </div>
+ <h1>We made the three hardest jobs in industrial AI <em>agentic.</em></h1>
+ <div class="sub">Agentic:<span class="d ag"><svg class="ico" viewBox="0 0 24 24" style="width:16px;height:16px"><use href="#i-bot"/></svg></span>AI agents do the work.<span class="gap"></span><span class="d en"><svg class="ico" viewBox="0 0 24 24" style="width:16px;height:16px"><use href="#i-ucheck"/></svg></span>Our engineers approve it.</div>
+ <div class="stages"><div class="stage">
+ <div class="chev">01 Presales</div>
+ <div class="card"><div class="desc">Research the account, design the solution.</div>
+  <div class="metric"><div class="vis"><svg viewBox="0 0 88 88" width="88" height="88" aria-hidden="true">
+ <circle cx="44" cy="44" r="38" fill="none" stroke="#0A3083" stroke-width="8"/>
+ <circle cx="44" cy="44" r="38" fill="none" stroke="#68DD68" stroke-width="8" stroke-dasharray="39.8 238.8" transform="rotate(-90 44 44)"/>
+ <line x1="44" y1="44" x2="44" y2="20" stroke="#F1F5FA" stroke-width="3" stroke-linecap="round"/>
+ <line x1="44" y1="44" x2="60" y2="35" stroke="#F1F5FA" stroke-width="3" stroke-linecap="round"/>
+ <circle cx="44" cy="44" r="4" fill="#F1F5FA"/></svg></div><div><div class="big">2 hours</div><div class="cap">to a plant-specific design</div></div></div></div>
+ <div class="drop"><i></i></div></div><div class="stage">
+ <div class="chev">02 Implementation</div>
+ <div class="card"><div class="desc">Configure it. Engineers approve each release.</div>
+  <div class="metric"><div class="vis"><svg viewBox="0 0 88 88" width="88" height="88" aria-hidden="true">
+ <rect x="0" y="24" width="88" height="16" rx="2" fill="#0A3083"/>
+ <rect x="0" y="48" width="11" height="16" rx="2" fill="#68DD68"/></svg></div><div><div class="big">About 5 weeks</div><div class="cap">from about 40</div></div></div></div>
+ <div class="drop"><i></i></div></div><div class="stage">
+ <div class="chev">03 Adoption and scale-up</div>
+ <div class="card"><div class="desc">Stay on call, report the value.</div>
+  <div class="metric"><div class="vis"><svg viewBox="0 0 88 88" width="88" height="88" aria-hidden="true">
+ <circle cx="44" cy="44" r="38" fill="none" stroke="#0A3083" stroke-width="8"/>
+ <circle cx="44" cy="44" r="38" fill="none" stroke="#68DD68" stroke-width="8" stroke-dasharray="193.4 238.8" transform="rotate(-90 44 44)"/></svg></div><div><div class="big">81%</div><div class="cap">of revenue from existing customers</div></div></div></div>
+ <div class="drop"><i></i></div></div></div>
+ <div class="base"><span class="ic"><svg class="ico" viewBox="0 0 24 24" style="width:18px;height:18px"><use href="#i-wrench"/></svg></span><span class="ic"><svg class="ico" viewBox="0 0 24 24" style="width:18px;height:18px"><use href="#i-book"/></svg></span>
+  <span>All three run on <b>the Harness</b>, the tools our agents use, and <b>the Context</b>, what 400+ factories taught us.</span></div>
  <div class="bottom">
   <div class="quote">
-   <div class="lslot">Stratasys</div>
+   <div class="lslot"><span class="tag">Design team · logos</span>Stratasys</div>
    <div><div class="q">“…what we want is like <em>an end to end agentic framework</em>.”</div>
    <div class="qa">Gurvinder Kahlon, Stratasys · <span>Qualified prospect</span></div></div>
   </div>
-  <div class="take"><div><b>Industrial AI fails in three places: the sale, the implementation and the scale-up.</b> Faclon's agents do all three, with engineers approving the work, which is how <span class="hl">about 40 weeks becomes about 5</span>.</div></div>
+  <div class="take"><div><b>Industrial AI fails in three places: the sale, the implementation and the scale-up.</b> Faclon’s agents do all three, with engineers approving the work, which is how about 40 weeks becomes about 5.</div></div>
  </div>
 </div>
 <div class="src">Faclon presales benchmarks and deployment records, September 2026. About 5 weeks: deployment and configuration measured (a median of three weeks over the last six months), other stages from project plans. Revenue from existing customers: FY26.</div>
 <div class="prog"><i class="done"></i><i class="done"></i><i class="on"></i><i></i><i></i><span class="pg">12</span></div>
-</section>
-</div></div>
-<script>
-(function(){const d=document.getElementById('deck');function fit(){d.style.transform='scale('+Math.min(innerWidth/1280,innerHeight/720)+')'}addEventListener('resize',fit);fit();})();
-</script>
+</section></div>
+<script>(function(){const s=document.getElementById('slide');function fit(){s.style.transform='scale('+Math.min(innerWidth/1280,innerHeight/720)+')'}addEventListener('resize',fit);fit();})();</script>
 </body></html>
